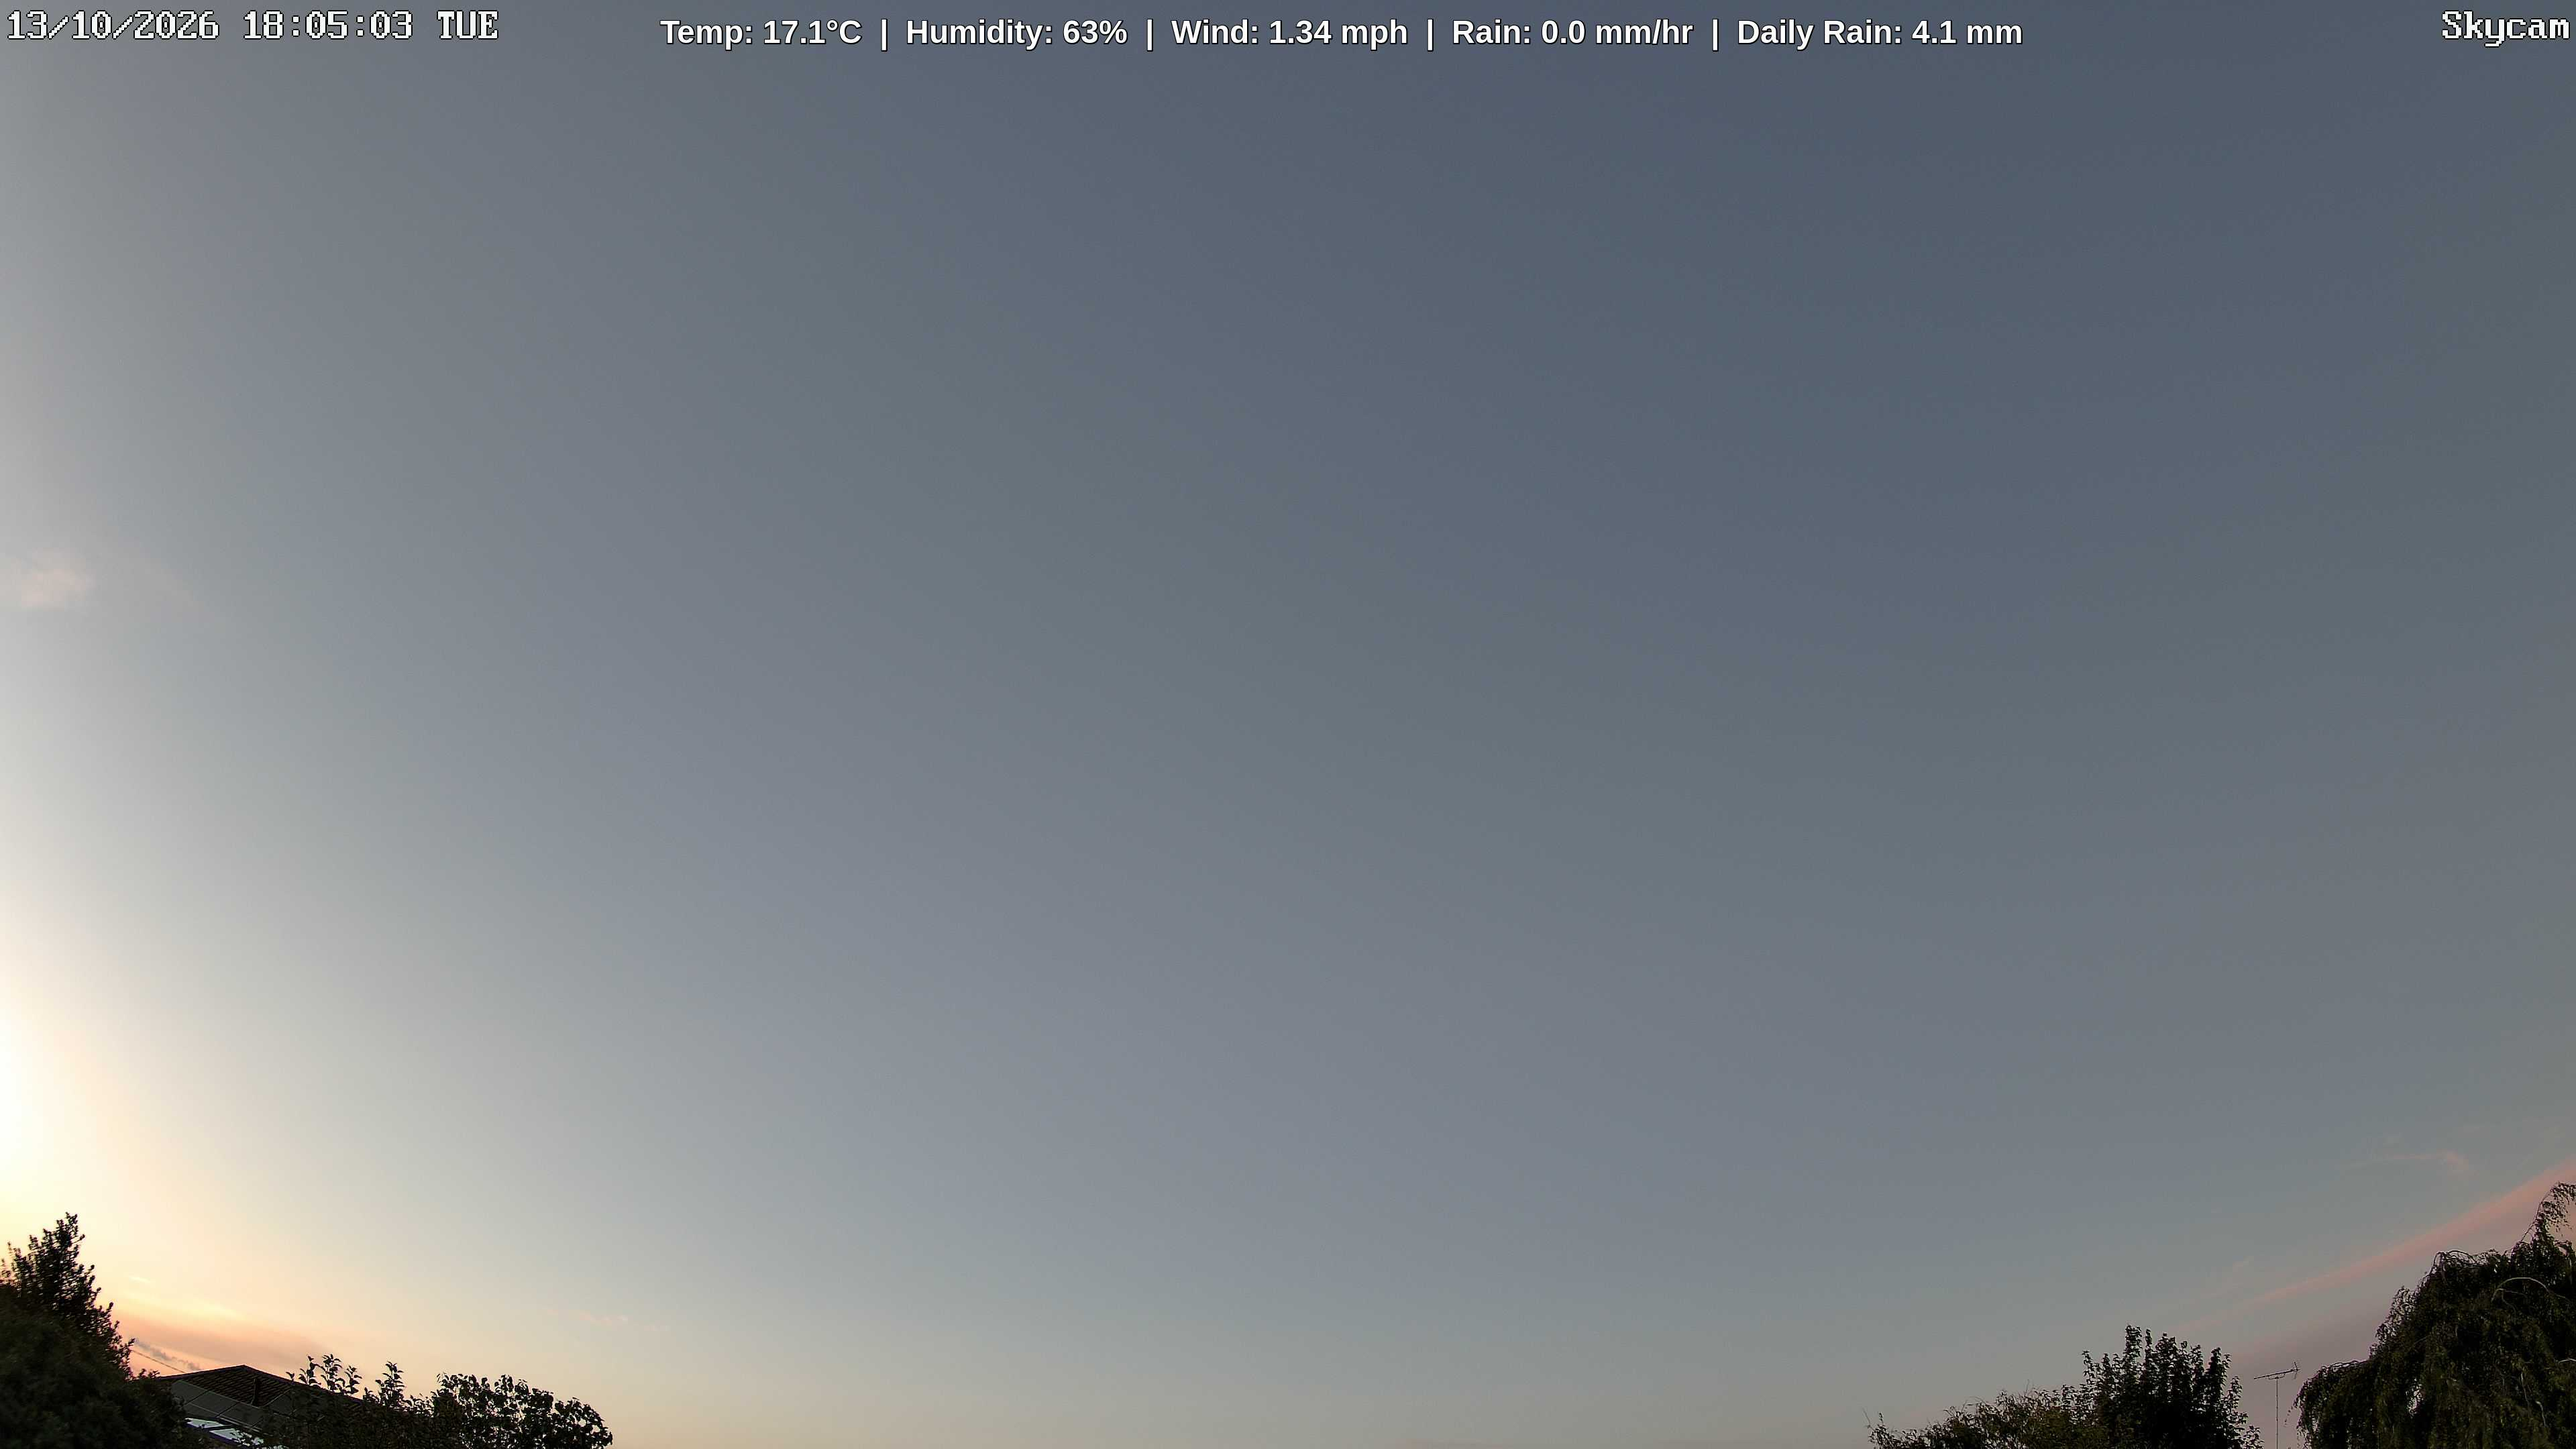
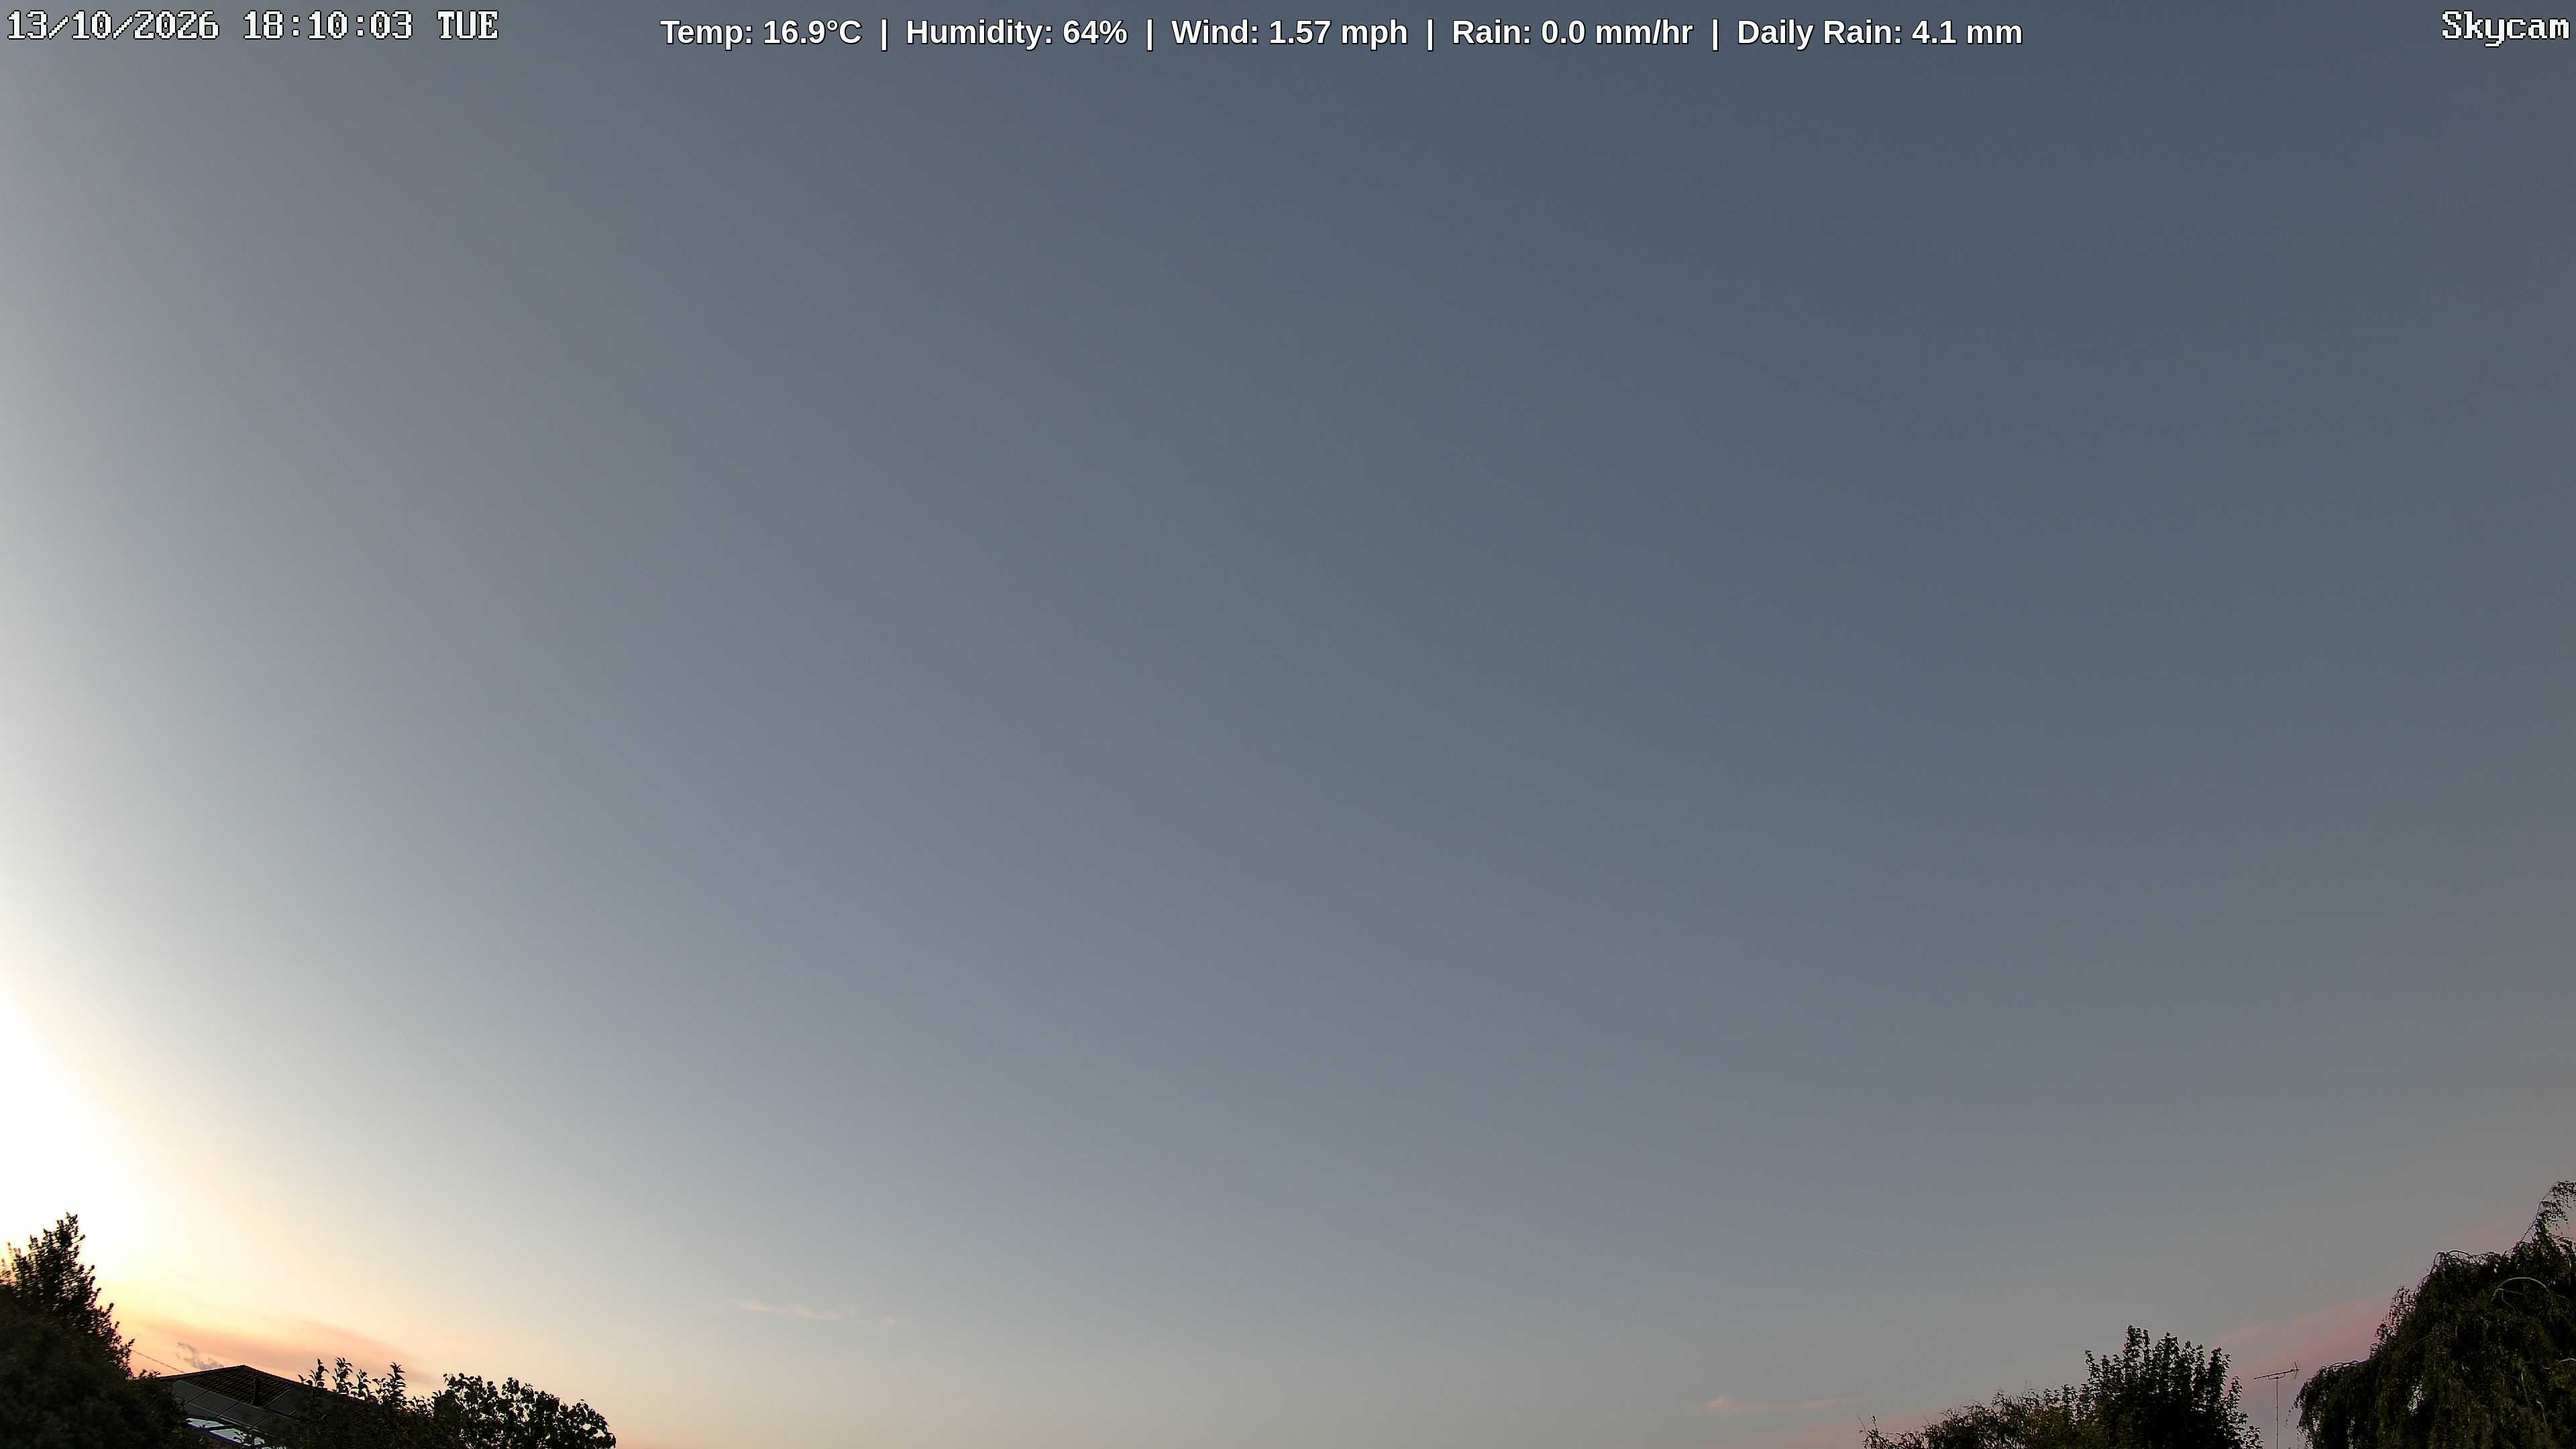
Update weather cam image with synchronized dual-layer weather metrics

diff --git a/index.html b/index.html
@@ -32,7 +32,7 @@
 </head>
 <body>
     <img id="weathercam" alt="Live Weather Snapshot">
-    <div class="banner">Temp: 17.1°C  |  Humidity: 63%  |  Wind: 1.34 mph  |  Rain: 0.0 mm/hr  |  Daily Rain: 4.1 mm</div>
+    <div class="banner">Temp: 16.9°C  |  Humidity: 64%  |  Wind: 1.57 mph  |  Rain: 0.0 mm/hr  |  Daily Rain: 4.1 mm</div>
 
     <script>
         // Shatter mobile cache engines by appending a live unique runtime timestamp 
